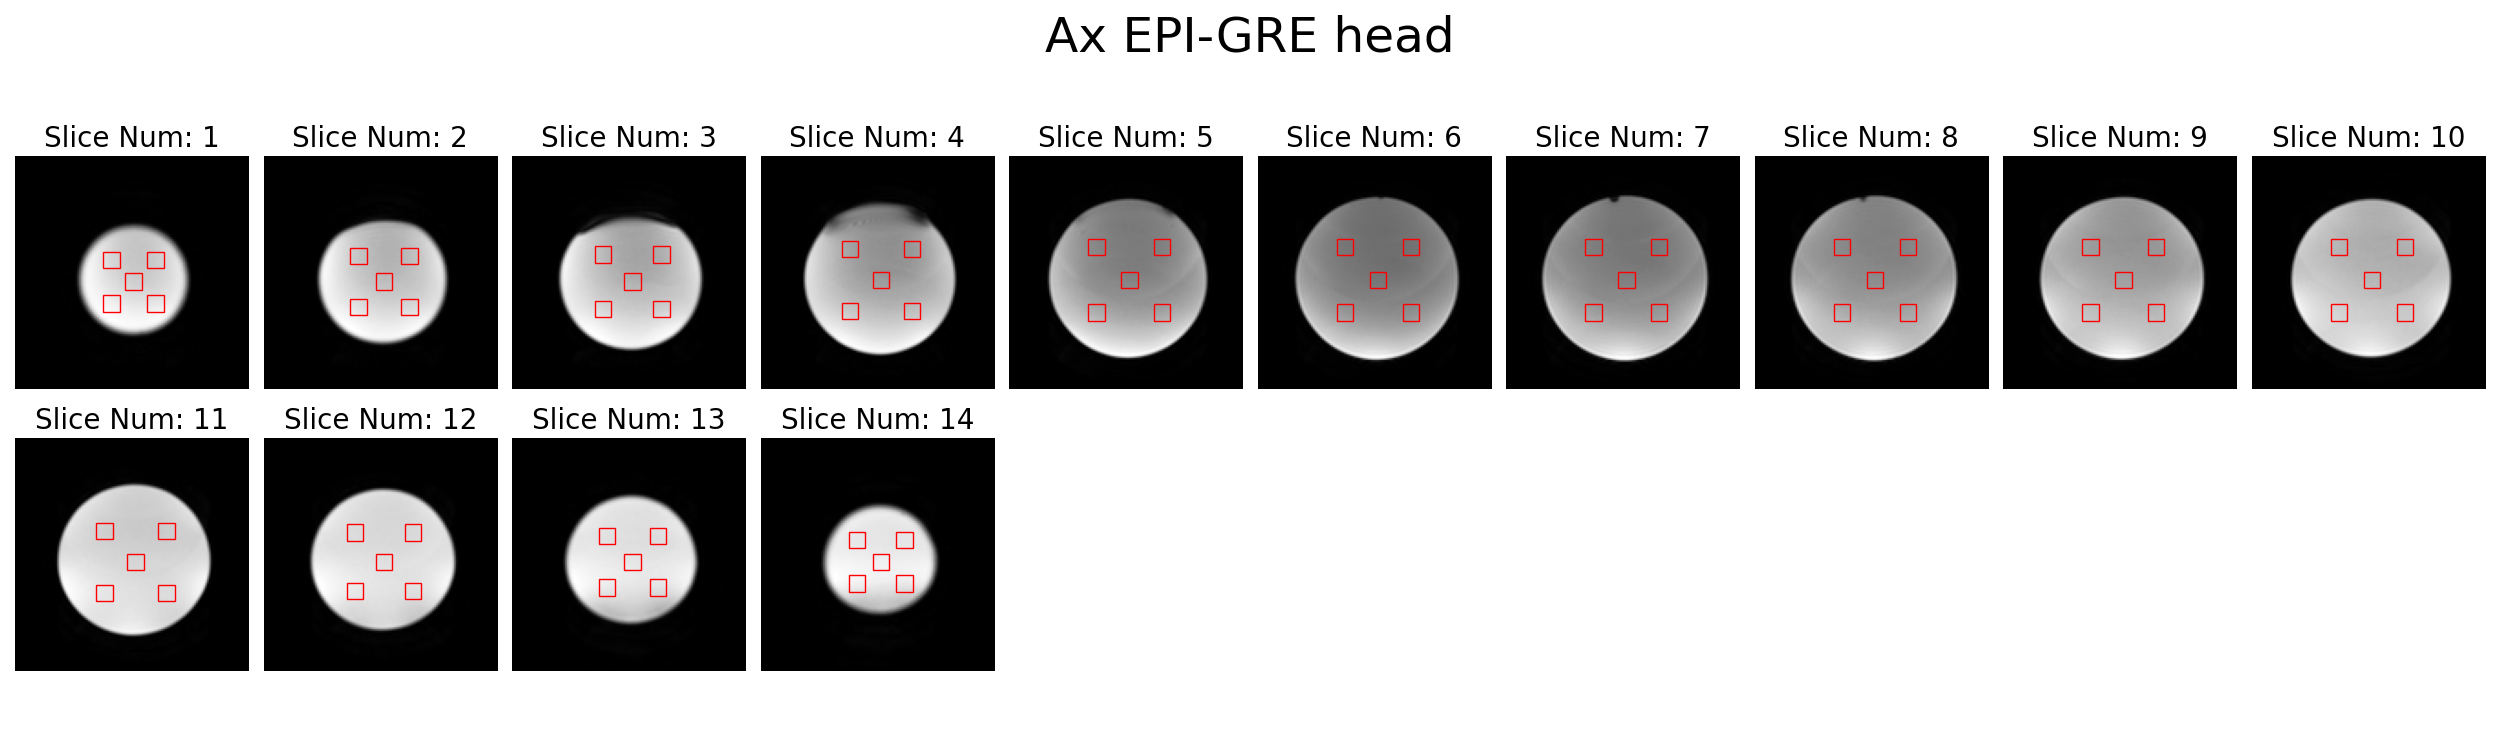
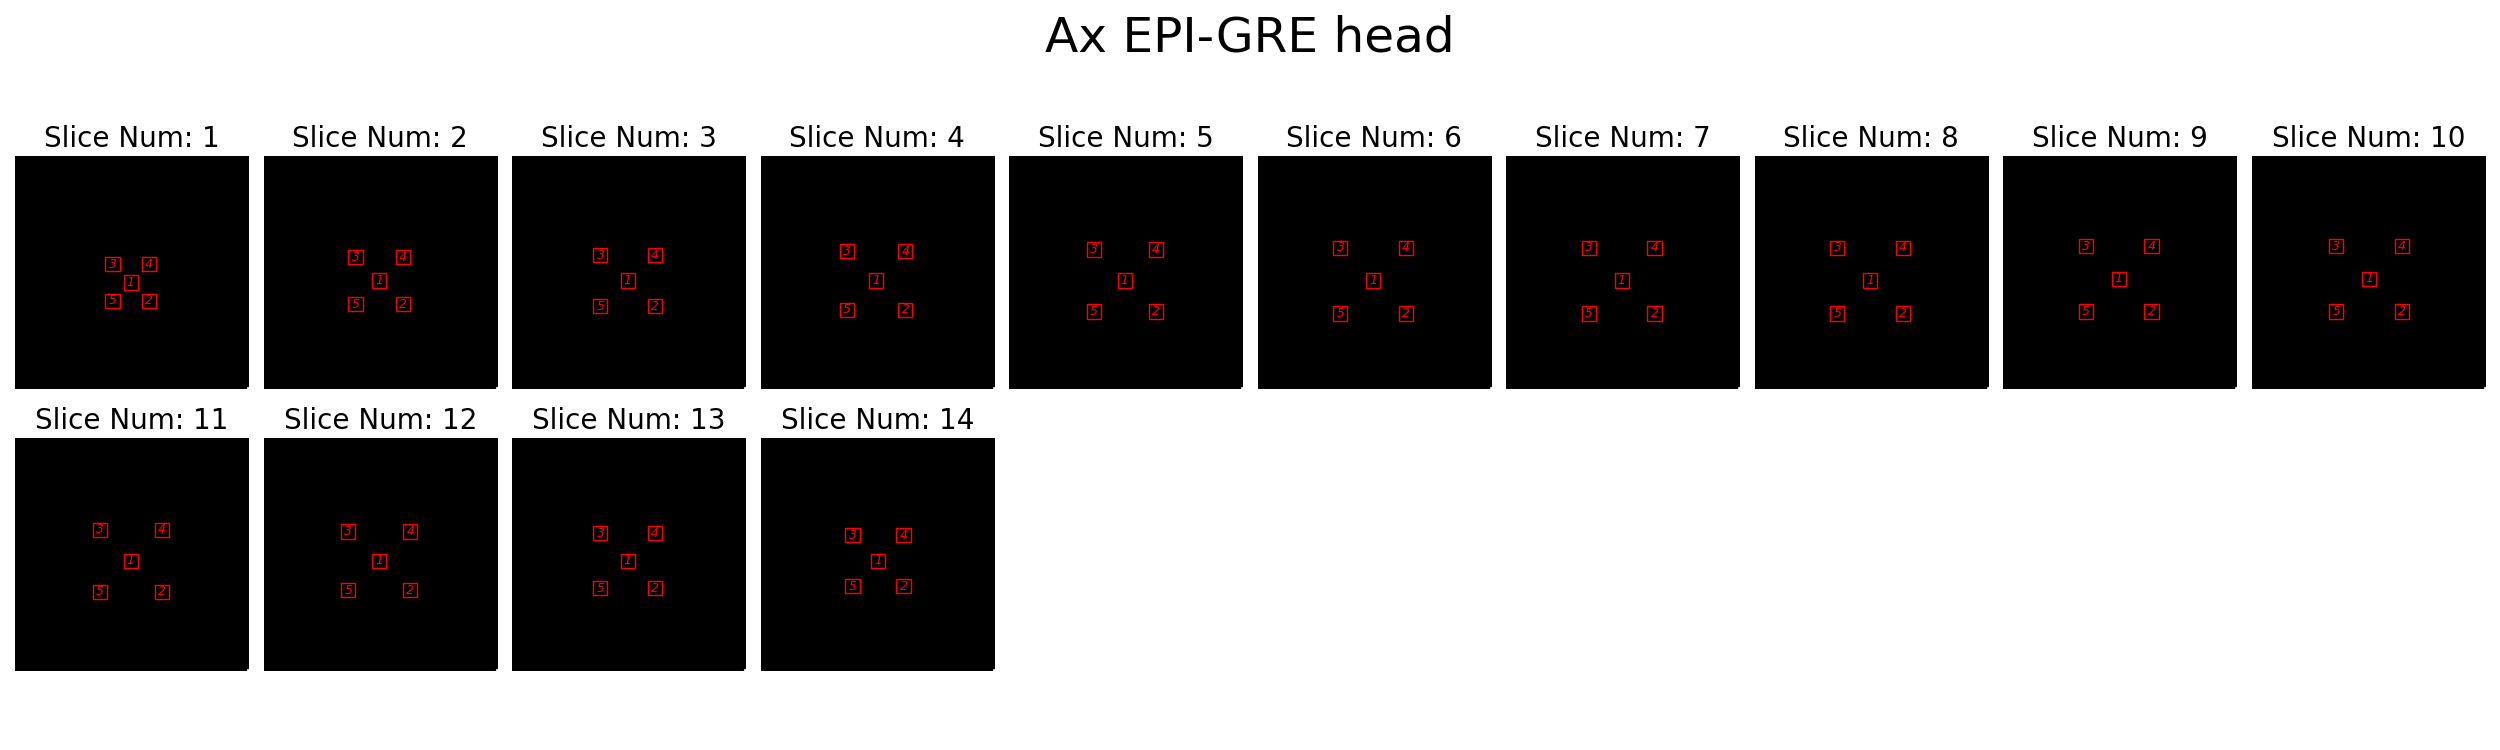
updates to plotting

diff --git a/SmoothingMethod.py b/SmoothingMethod.py
@@ -14,9 +14,12 @@ def PlotROIS(ROIS,ROISize,RoiSizeHalf,BinaryMap,Image,col,row,axs,sliceNum):
     axs[row,col].axis('off')
     axs[row,col].imshow(Image,cmap='Greys_r')
     axs[row,col].set_title("Slice Num: " + str(sliceNum), fontsize=20)
+    count=1
     for roi in ROIS:
         rect = patches.Rectangle((roi[0]-RoiSizeHalf, roi[1]-RoiSizeHalf), ROISize, ROISize, linewidth=1, edgecolor='r', facecolor='none')
         axs[row,col].add_patch(rect)
+        axs[row,col].text(roi[0], roi[1], str(count), style='italic', ha='center', va='center',fontsize=9,color='red')
+        count+=1
 
 def SmoothedImageSubtraction(ImageData,KernalSize,ROISize=None,Thresh=None, width = None, Cent = None,seq=None, RejectedSlices = []):
 

diff --git a/Test_PassFunctionAndEmail.py b/Test_PassFunctionAndEmail.py
@@ -28,8 +28,7 @@ for result in Results:
 	shutil.copyfile(result[-1]+"_SmoothMethod.png", os.path.join(DataFolder,result[-1]+"_SmoothMethod.png"))
 	print(os.path.join(DataFolder,result[-1]+"_SmoothMethod.png"))
 	Images.append(os.path.join(DataFolder,result[-1]+"_SmoothMethod.png"))
-	
-                                
+
 
 for name in Emails.keys():
 	Helper.SendEmailV2(name,Emails[name],EmailResultLines,Results[0][2],QAResultTracker,Archive=DataFolder,images=Images)

diff --git a/DailyQALauncher.py b/DailyQALauncher.py
@@ -9,8 +9,8 @@ import Helper
 #Files = "BaselineData/Head/DQA_Head_10_20231004_213318720"  
 #Files = "BaselineData/Spine/DQA_Spine_10"  
 
-Files = "/Users/mri/Desktop/DailyQA/Archive/DQA_Head_2023-11-08 09-46-19"
-
+#Files = "/Users/mri/Desktop/DailyQA/Archive/DQA_Head_2023-11-08 09-46-19"
+Files = "Data/DQA_Head_1"
 Results = DailyQA.RunDailyQA(Files)
 for result in Results:
 	print (result)
